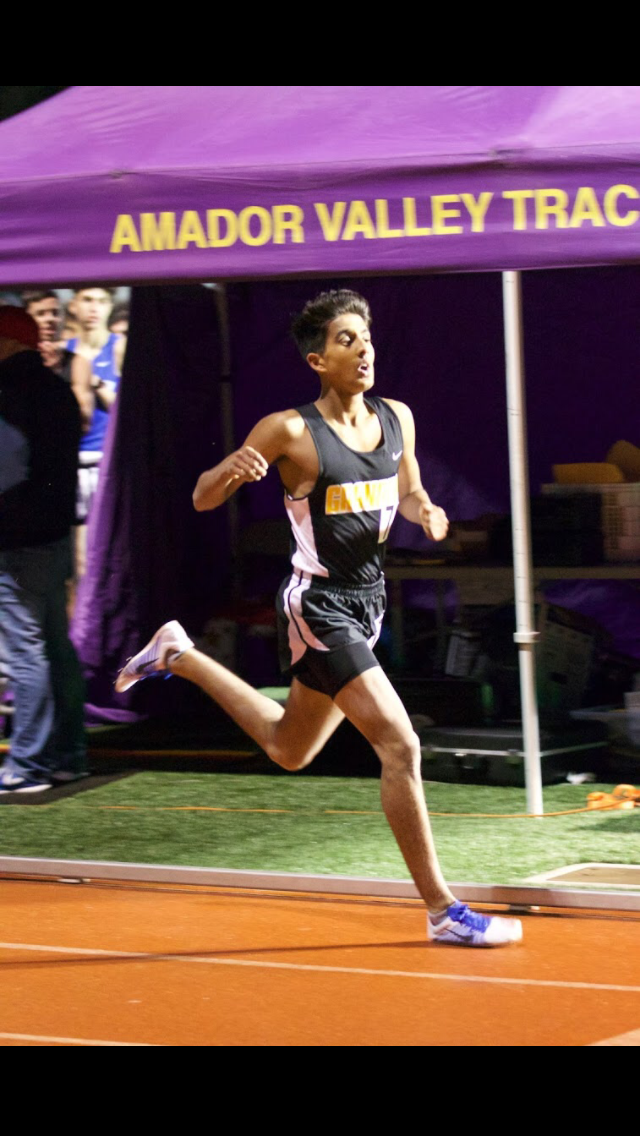
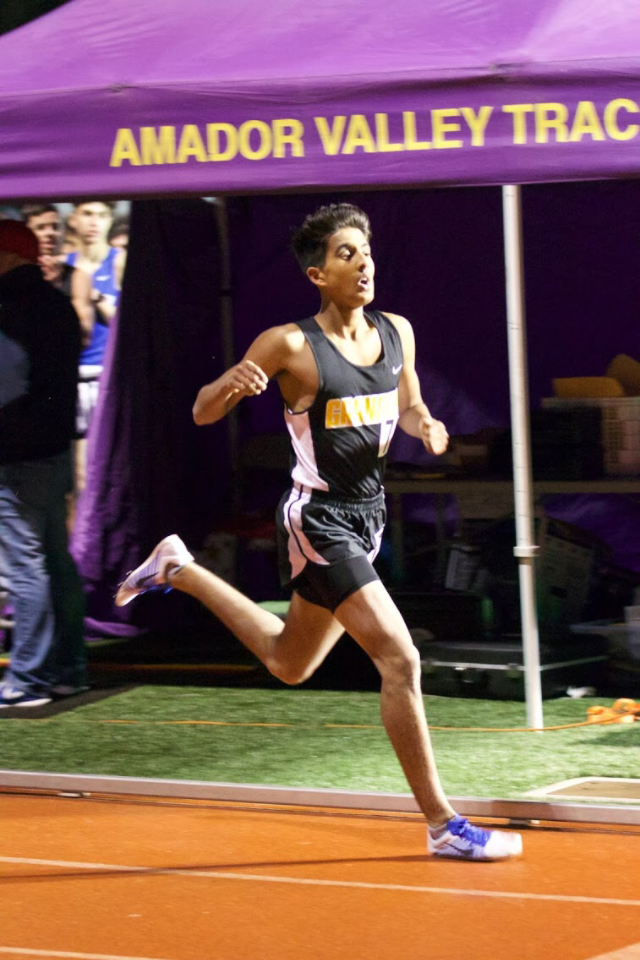
Crop baked-in letterbox bars from story photos
IMG_5718.PNG and IMG_5726.PNG had large black bars baked into the
source files. Cropped both to actual content and switched the photo
row back to object-fit: cover (no more contain/letterbox background),
so all three Story photos fill their boxes edge-to-edge.

diff --git a/index.html b/index.html
@@ -73,13 +73,12 @@ section { padding: 8rem 2rem; }
 .story-text p { font-size: 1.25rem; font-weight: 300; line-height: 1.65; margin-bottom: 1.5rem; }
 .photo-strip { display: flex; flex-direction: column; gap: 1rem; }
 .photo-box { height: 12rem; background: #1a1a1c; border-radius: 2px; overflow: hidden; }
-.photo-box.tall { height: auto; aspect-ratio: 640 / 1136; }
+.photo-box.tall { height: auto; aspect-ratio: 640 / 960; }
 .photo-box .ph { width: 100%; height: 100%; object-fit: cover; display: block; background: #2a2a2c; filter: grayscale(100%); transition: filter .3s ease; }
 .photo-box .ph:hover { filter: grayscale(0%) contrast(1.1) brightness(0.9) sepia(0.2) hue-rotate(-50deg); }
 .photo-row { display: grid; grid-template-columns: 1fr; gap: 1rem; margin-top: 2rem; }
 @media (min-width: 700px) { .photo-row { grid-template-columns: 1fr 1fr; } }
-.photo-box.contain { height: 16rem; }
-.photo-box.contain .ph { object-fit: contain; }
+.photo-row .photo-box { height: 14rem; }
 
 #experience .exp-inner { max-width: 1100px; margin: 0 auto; }
 .exp-row { display: grid; grid-template-columns: 1fr; gap: 2rem; padding: 3rem 0; }
@@ -178,8 +177,8 @@ footer .sub { color: #8a8a8f; margin-top: 1rem; }
             </div>
         </div>
         <div class="photo-row">
-            <div class="photo-box contain"><img class="ph" src="IMG_5726.PNG" alt="Recovery — a run for the joy of it"></div>
-            <div class="photo-box contain"><img class="ph" src="device_example.png" alt="Engineering roots — EEG stroke-detection wearable prototype"></div>
+            <div class="photo-box"><img class="ph" src="IMG_5726.PNG" alt="Recovery — a run for the joy of it"></div>
+            <div class="photo-box"><img class="ph" src="device_example.png" alt="Engineering roots — EEG stroke-detection wearable prototype"></div>
         </div>
     </div>
 </section>
